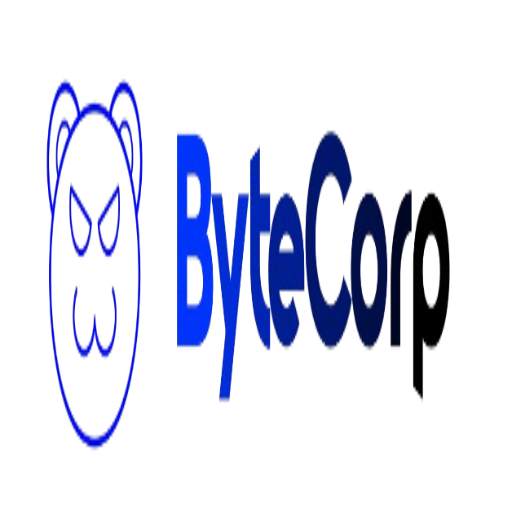
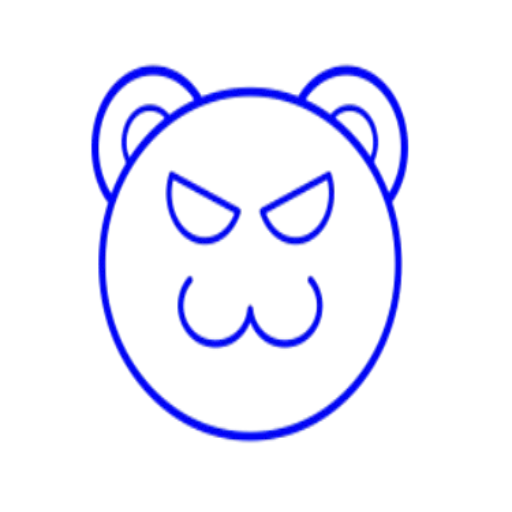
[ADD] mejorar iconos, ajustar headlinks y headernav..

Changed region(s): [[0.0625, 0.125, 0.9062, 0.875], [0.125, 0.7812, 0.1562, 0.8438]]

diff --git a/src/main/java/bytecorp/controllers/SvLogin.java b/src/main/java/bytecorp/controllers/SvLogin.java
@@ -1,0 +1,60 @@
+package bytecorp.controllers;
+
+import jakarta.servlet.ServletException;
+import jakarta.servlet.annotation.WebServlet;
+import jakarta.servlet.http.HttpServlet;
+import jakarta.servlet.http.HttpServletRequest;
+import jakarta.servlet.http.HttpServletResponse;
+import jakarta.servlet.http.HttpSession;
+
+import java.io.IOException;
+
+/**
+ * Servlet implementation class SvLogin
+ */
+
+public class SvLogin extends HttpServlet {
+	private static final long serialVersionUID = 1L;
+       
+	final static String ADMIN_USERNAME = "admin";
+	final static String ADMIN_PASSWORD = "123";
+	
+    /**
+     * @see HttpServlet#HttpServlet()
+     */
+    public SvLogin() {
+        super();
+        // TODO Auto-generated constructor stub
+    }
+
+	/**
+	 * @see HttpServlet#doGet(HttpServletRequest request, HttpServletResponse response)
+	 */
+	protected void doGet(HttpServletRequest request, HttpServletResponse response) throws ServletException, IOException {
+		// TODO Auto-generated method stub
+		request.getRequestDispatcher("login.jsp").forward(request, response);
+	}
+
+	/**
+	 * @see HttpServlet#doPost(HttpServletRequest request, HttpServletResponse response)
+	 */
+	protected void doPost(HttpServletRequest request, HttpServletResponse response) throws ServletException, IOException {
+		// TODO Auto-generated method stub
+		
+		//Recuperamos username y password
+		String username = request.getParameter("username");
+		String password = request.getParameter("password");
+		
+		if(username == null || username.equals("") || password == null || password.equals("")) {
+			doGet(request, response);
+		}
+		
+		HttpSession session = request.getSession();
+		
+		session.setAttribute("username", username );
+		
+		
+		(request.getRequestDispatcher("user/info.jsp")).forward(request, response);
+	}
+
+}
